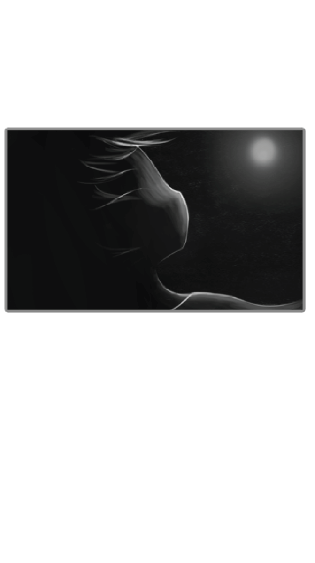
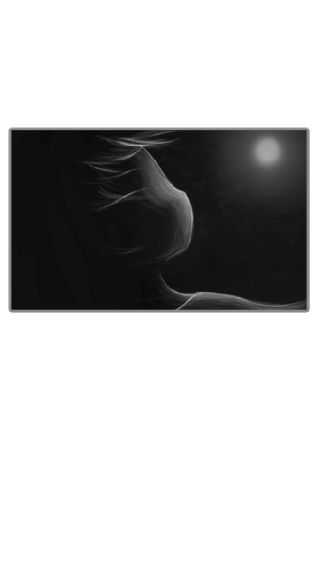
Media queries for smartphones.

diff --git a/public/css/sunset/the-beginning-of-sunset-deity-01.css b/public/css/sunset/the-beginning-of-sunset-deity-01.css
@@ -4,13 +4,13 @@
 .middle {width: 3200px;z-index: 250;top: 0px;}
 .front {width: 6500px;z-index: 500;top: 0px;}
 .page{position: absolute;}
-.element01{top: -50px;left: 510px;} .element02{top: -130px;left: 1175px;} 
+.element01{top: -50px;left: 510px;}
+.element02{top: -130px;left: 1175px;} 
 .element03{top: 220px;left: 1420px;} 
 .element04{top: 75px;left: 3500px;} 
 .element05{top: 220px;left: 5440px;} 
 #loader{position:fixed;top:0;width:100%;background-color:white;height:100%;text-align:center;margin:0;padding:0;overflow:hidden;z-index: 600;}
 
-/*OTHER SCREEN SETTINGS*/
 /* Large screens ----------- */
 @media only screen and (min-width : 1824px) {
 	.horizon{width: 5006px;}
@@ -27,4 +27,95 @@
 	.element04 img{width: 418px;} 
 	.element05{top: 220px;left: 7235px;} 
 	.element05 img{width: 216px;} 
+}
+
+/* Smartphones (iphone landscape) ----------- */
+@media only screen and (max-width : 480px) and (max-height : 320px){
+	.horizon{width: 878px;}
+	.horizon img{width: 878px;}
+	.middle {width: 1120px;z-index: 87;}
+	.front {width: 2275px;z-index:175;}
+	.element01{top: 0px;left: 178px;} 
+	.element01 img{width: 74px;} 
+	.element02{top: 0px;left: 411px;} 
+	.element02 img{width: 224px;} 
+	.element03{top: 125px;left: 497px;} 
+	.element03 img{width: 81px;} 
+	.element04{top: 70px;left: 1225px;} 
+	.element04 img{width: 110px;} 
+	.element05{top: 100px;left: 1904px;} 
+	.element05 img{width: 58px;} 
+}
+
+/* Smartphones (iphone portrait) ----------- */
+@media only screen and (max-width : 320px) and (max-height : 480px) {
+	.horizon{width: 577px;}
+	.horizon img{width: 577px;}
+	.middle {width: 736px;z-index: 57;}
+	.front {width: 1495px;z-index:115;}
+	.element01{top: 0px;left: 117px;} 
+	.element01 img{width: 48px;} 
+	.element02{top: 110px;left: 270px;} 
+	.element02 img{width: 147px;} 
+	.element03{top: 190px;left: 326px;} 
+	.element03 img{width: 53px;} 
+	.element04{top: 160px;left: 805px;} 
+	.element04 img{width: 72px;} 
+	.element05{top: 220px;left: 1251px;} 
+	.element05 img{width: 38px;} 
+}
+
+
+/* iPad portrait */
+@media only screen and (max-device-width : 768px)and (max-device-height : 1024px){
+	.horizon{width: 1405px;}
+	.horizon img{width: 1405px;}
+	.middle {width: 1792px;z-index: 140;}
+	.front {width: 3640px;z-index:280;}
+	.element01{top: -66px;left: 285px;} 
+	.element01 img{width: 118px;} 
+	.element02{top: -35px;left: 645px;} 
+	.element02 img{width: 362px;} 
+	.element03{top: 170px;left: 795px;} 
+	.element03 img{width: 93px;} 
+	.element04{top: 75px;left: 1960px;} 
+	.element04 img{width: 177px;} 
+	.element05{top: 220px;left: 3046px;} 
+	.element05 img{width: 93px;} 
+} 
+
+/* Smartphones (iphone5 landscape) ----------- */
+@media only screen and (min-device-width : 320px) and (max-device-width : 568px) and (orientation: landscape){
+	.horizon{width: 878px;}
+	.horizon img{width: 878px;}
+	.middle {width: 1120px;z-index: 87;}
+	.front {width: 2275px;z-index:175;}
+	.element01{top: 0px;left: 178px;} 
+	.element01 img{width: 74px;} 
+	.element02{top: -90px;left: 411px;} 
+	.element02 img{width: 224px;} 
+	.element03{top: 35px;left: 497px;} 
+	.element03 img{width: 81px;} 
+	.element04{top: 30px;left: 1225px;} 
+	.element04 img{width: 110px;} 
+	.element05{top: 40px;left: 1904px;} 
+	.element05 img{width: 58px;} 
+}
+
+/* Smartphones (iphone5 portrait) ----------- */
+@media only screen (max-device-width : 320px) and (max-device-height : 568px){
+	.horizon{width: 577px;}
+	.horizon img{width: 577px;}
+	.middle {width: 736px;z-index: 57;}
+	.front {width: 1495px;z-index:115;}
+	.element01{top: 0px;left: 117px;} 
+	.element01 img{width: 48px;} 
+	.element02{top: 110px;left: 270px;} 
+	.element02 img{width: 147px;} 
+	.element03{top: 190px;left: 326px;} 
+	.element03 img{width: 53px;} 
+	.element04{top: 160px;left: 805px;} 
+	.element04 img{width: 72px;} 
+	.element05{top: 220px;left: 1251px;} 
+	.element05 img{width: 38px;} 
 }

diff --git a/app/views/sunset/the-beginning-of-sunset-deity-01.blade.php b/app/views/sunset/the-beginning-of-sunset-deity-01.blade.php
@@ -14,7 +14,7 @@
 	    <img src="{{asset('images/mario.gif')}}" width="40%">
 	</div>   
 	<div class="horizon scroll">
-		<img alt="" src="{{asset('images/sunset/the-beginning-of-sunset-deity-01/titik-titik.png')}}">
+		<img alt="" src="{{asset('images/sunset/the-beginning-of-sunset-deity-01/titik-titik.jpg')}}">
 	</div>
 	<div class="middle scroll" id = "lights">
 		<div class="element02 page">   
@@ -26,13 +26,13 @@
 	</div>
 	<div class="front scroll">
 		<div class="element01 page">
-			<img alt="" src="{{asset('images/sunset/the-beginning-of-sunset-deity-01/1.png')}}">
+			<img alt="" src="{{asset('images/sunset/the-beginning-of-sunset-deity-01/1.gif')}}">
 		</div>
 		<div class="element04 page">
 			<img alt="" src="{{asset('images/sunset/the-beginning-of-sunset-deity-01/2.png')}}">
 		</div>
 		<div class="element05 page">
-			<img alt="" src="{{asset('images/sunset/the-beginning-of-sunset-deity-01/3.png')}}">
+			<img alt="" src="{{asset('images/sunset/the-beginning-of-sunset-deity-01/3.gif')}}">
 		</div>
 	</div>
 @stop
